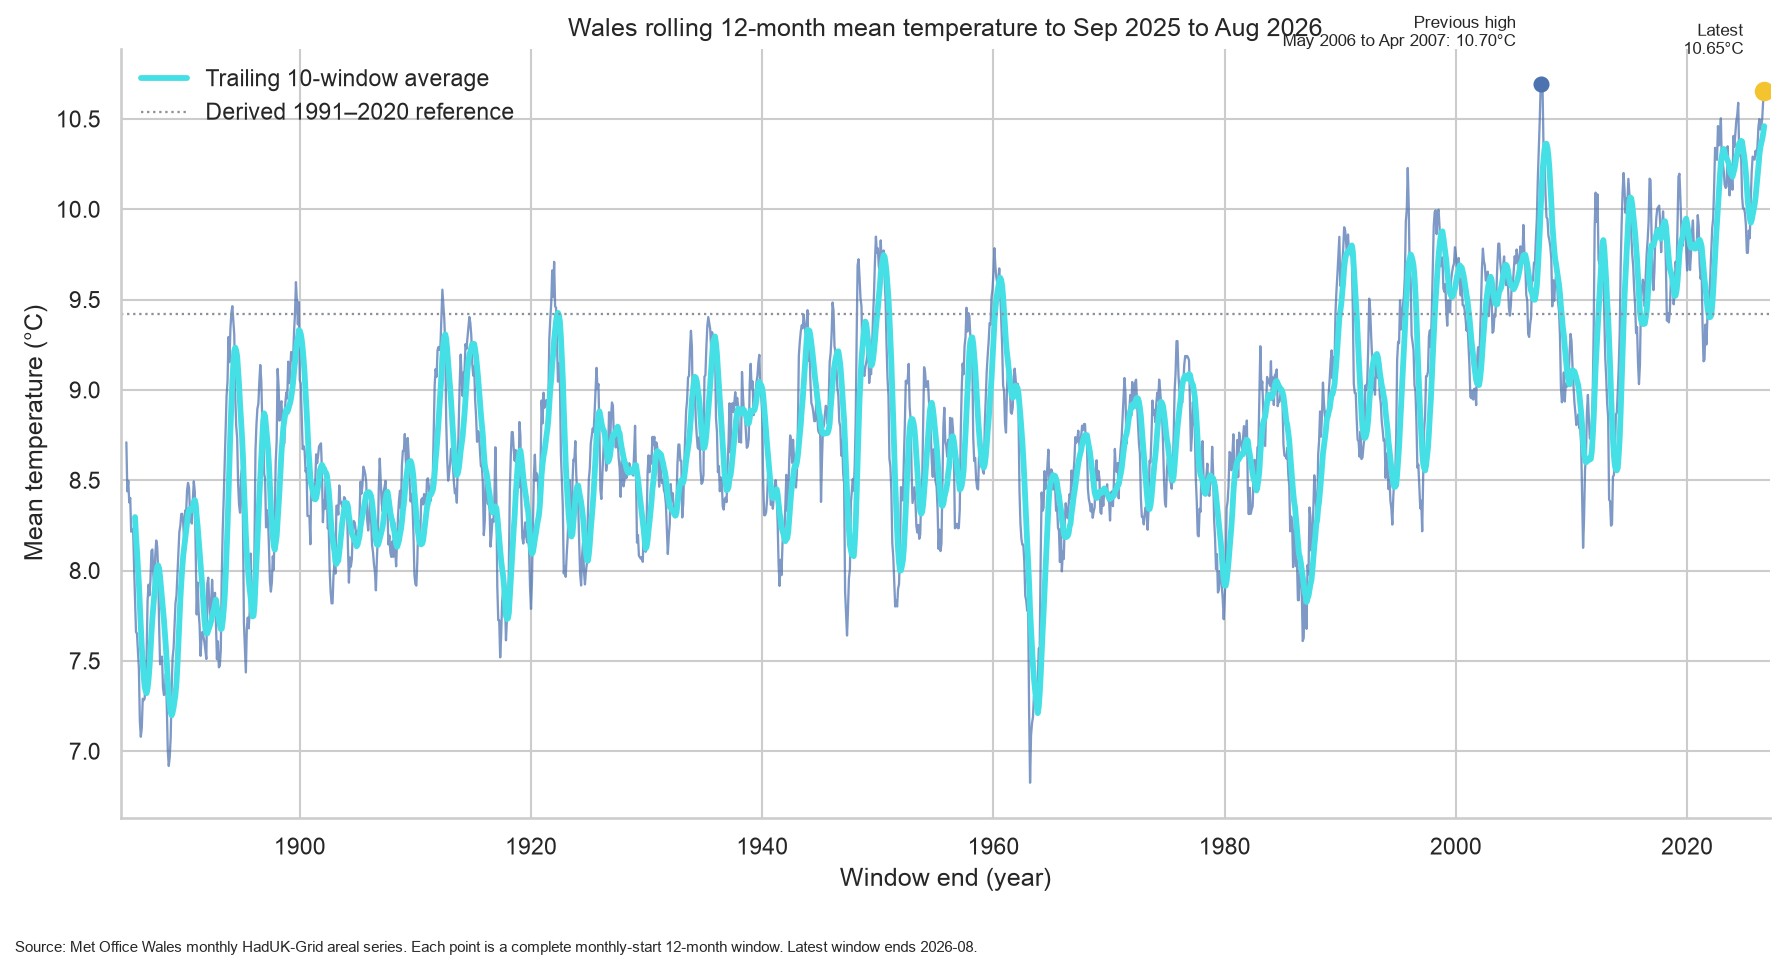
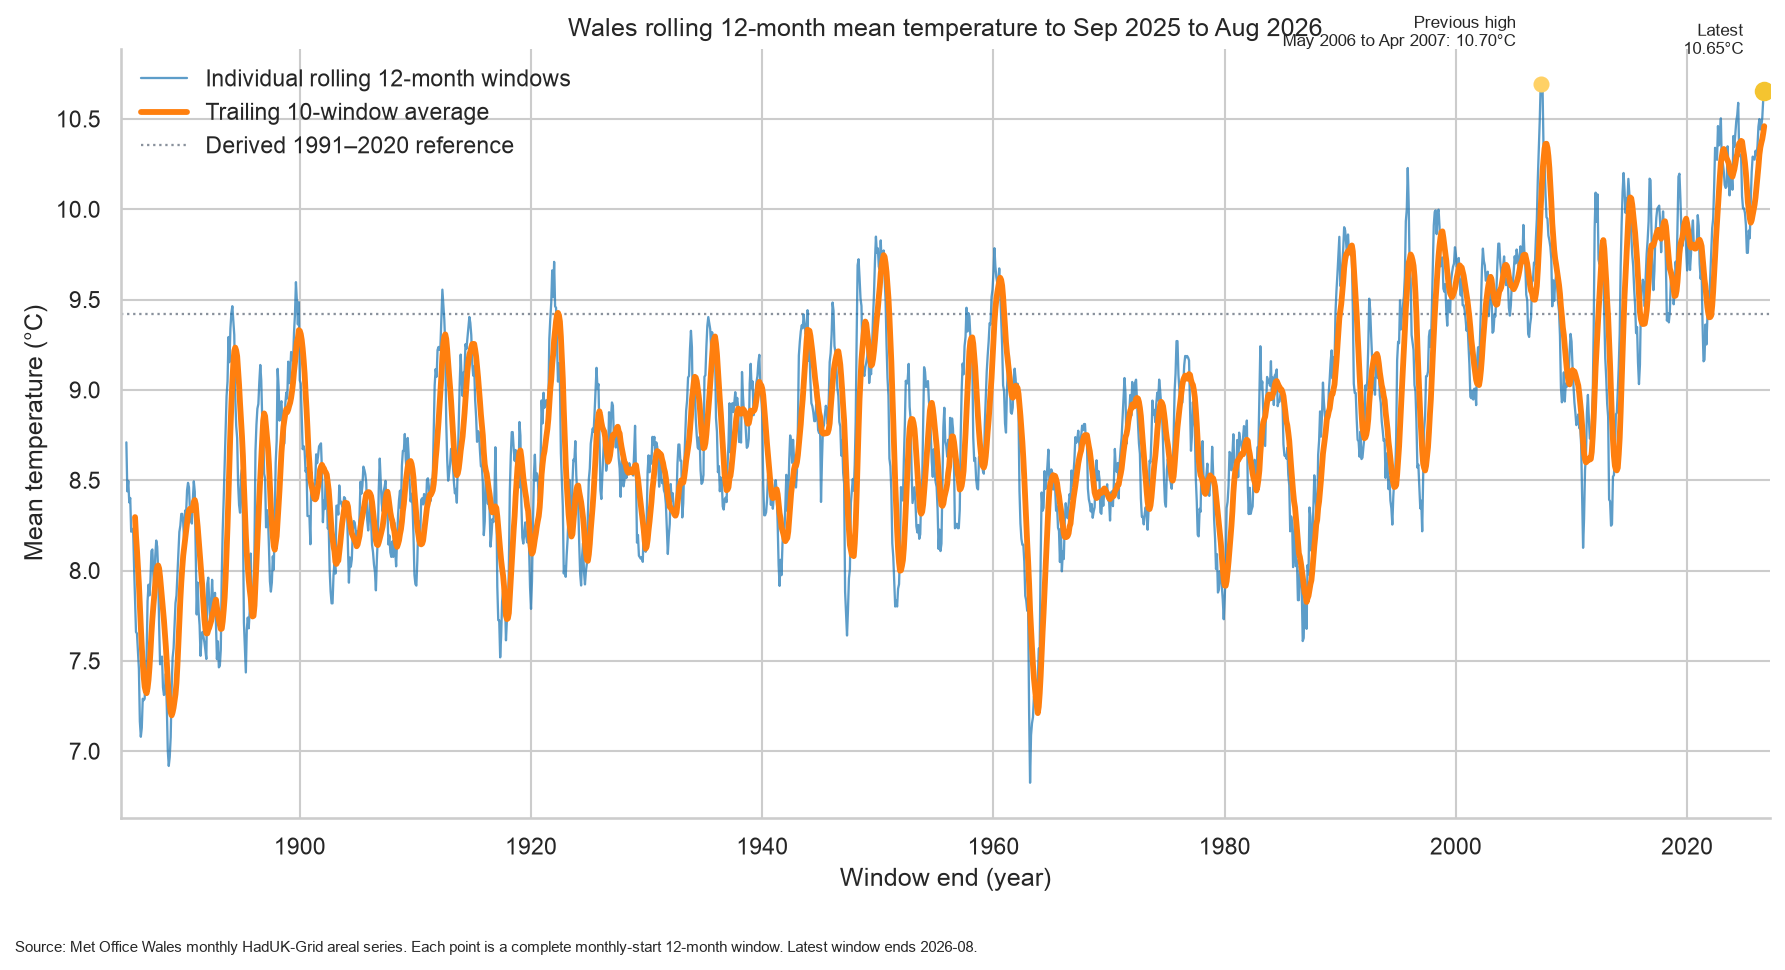
Clarify rolling history chart legend and colours.
Match the archived light trend figure: blue individual windows, orange trailing average, grey reference, and a full three-line legend.

Changed region(s): [[0.0616, 0.1237, 1.0, 0.7423], [0.0924, 0.0619, 0.3081, 0.1546]]

diff --git a/projects/001-rolling-temperature/monthly_monitor.py b/projects/001-rolling-temperature/monthly_monitor.py
@@ -26,6 +26,8 @@ MOVING_AVERAGE_CYAN = "#45e0e5"
 PREVIOUS_HIGH_AMBER = "#ffd166"
 REFERENCE_GREY = "#89919c"
 LATEST_GOLD = "#f4c430"
+PERIOD_COLOUR = "#1f77b4"
+AVERAGE_COLOUR = "#ff7f0e"
 
 
 def _load() -> tuple[pd.DataFrame, dict]:
@@ -59,20 +61,38 @@ def render_history(series: pd.DataFrame, summary: dict, basename: Path = HISTORY
     sns.set_theme(style="whitegrid", context="notebook")
     plt.rcParams.update({"svg.fonttype": "none"})
     fig, ax = plt.subplots(figsize=(12, 6.5))
-    sns.lineplot(data=data, x="end_x", y="mean_temperature_c", ax=ax, linewidth=1.1, alpha=0.72)
+    sns.lineplot(
+        data=data,
+        x="end_x",
+        y="mean_temperature_c",
+        ax=ax,
+        color=PERIOD_COLOUR,
+        linewidth=1.1,
+        alpha=0.72,
+        label="Individual rolling 12-month windows",
+        zorder=2,
+    )
     sns.lineplot(
         data=data,
         x="end_x",
         y="trailing_10_window_mean_c",
         ax=ax,
+        color=AVERAGE_COLOUR,
         linewidth=2.8,
-        color=MOVING_AVERAGE_CYAN,
         label="Trailing 10-window average",
+        zorder=4,
     )
-    ax.axhline(reference, linestyle=":", linewidth=1.1, color=REFERENCE_GREY, label="Derived 1991–2020 reference")
+    ax.axhline(
+        reference,
+        linestyle=":",
+        linewidth=1.1,
+        color=REFERENCE_GREY,
+        label="Derived 1991–2020 reference",
+        zorder=1,
+    )
     prev_x = float(previous["end_x"])
     curr_x = float(current["end_x"])
-    ax.scatter([prev_x], [previous.mean_temperature_c], s=45, zorder=5)
+    ax.scatter([prev_x], [previous.mean_temperature_c], s=45, color=PREVIOUS_HIGH_AMBER, zorder=5)
     ax.scatter([curr_x], [current.mean_temperature_c], s=70, color=LATEST_GOLD, zorder=6)
     period = summary["current_window"]["period_label"]
     ax.annotate(
